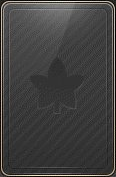
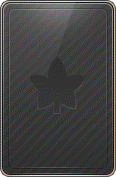
V1.1.3 加入每行角色數量防呆 美化遮住ID

Changed region(s): [[0.0, 0.0, 1.0, 1.0], [0.8534, 0.2542, 0.8793, 0.2825]]

diff --git a/main.js b/main.js
@@ -32,6 +32,9 @@ role.loadimg = function () {
 
 		role.line = Number(cardlinelen.value);
 		if (typeof role.line != 'number') role.line = 8;
+		role.line = Math.floor(role.line);
+		if (role.line < 1) role.line = 1;
+		if (role.line > 20) role.line = 20;
 
 		yield {
 			nextfunc: card.loadimg,
@@ -91,8 +94,10 @@ role.loadimg = function () {
 					icon.style.opacity = 0.3;
 				}
 				span.appendChild(icon);
-				let div = document.createElement('div');
-				span.appendChild(div);
+				let maskcard = card.newmaskcard();
+				maskcard.style.zIndex = 4;
+				maskcard.style.opacity = 0;
+				span.appendChild(maskcard);
 				span.appendChild(card.style(i, j));
 				spanmain.appendChild(span);
 				role.ref[cnt] = spanmain;
@@ -192,8 +197,8 @@ role.sort = function () {
 };
 role.maskid = function () {
 	for (let i = 0; i < role.len; i++) {
-		if (role.ref[i].getElementsByTagName('div')[0])
-			role.ref[i].getElementsByTagName('div')[0].style.opacity = 1;
+		if (role.ref[i].getElementsByTagName('canvas')[1])
+			role.ref[i].getElementsByTagName('canvas')[1].style.opacity = 1;
 	}
 	role.mask = true;
 	if (role.merge) {
@@ -204,8 +209,8 @@ role.maskid = function () {
 };
 role.cancelmaskid = function () {
 	for (let i = 0; i < role.len; i++) {
-		if (role.ref[i].getElementsByTagName('div')[0])
-			role.ref[i].getElementsByTagName('div')[0].style.opacity = 0;
+		if (role.ref[i].getElementsByTagName('canvas')[1])
+			role.ref[i].getElementsByTagName('canvas')[1].style.opacity = 0;
 	}
 	role.mask = false;
 	if (role.merge) {
@@ -224,7 +229,7 @@ role.mergeimg = function () {
 	for (let i = 0; i < role.len; i++) {
 		let cardimg;
 		if (role.refuse[role.id[i]]) {
-			cardimg = role.ref[role.id[i]].getElementsByTagName('canvas')[1];
+			cardimg = role.ref[role.id[i]].getElementsByTagName('canvas')[2];
 		} else {
 			cardimg = card.nullcard;
 		}
@@ -236,11 +241,12 @@ role.mergeimg = function () {
 			carddata.size.h
 		);
 		if (role.refuse[role.id[i]] && role.mask) {
-			ctx.fillRect(
-				role.addr[i].left + 25,
-				role.addr[i].top + 150,
-				79,
-				15
+			ctx.drawImage(
+				role.ref[i].getElementsByTagName('canvas')[1],
+				role.addr[i].left,
+				role.addr[i].top,
+				carddata.size.w,
+				carddata.size.h
 			);
 		}
 	}

diff --git a/img/card.js b/img/card.js
@@ -14,6 +14,7 @@ var card = {
 	refreg: [],
 	reg: {},
 	nullcard: {},
+	maskcard: {},
 	crossicon: {},
 	setcardangle: function (ctx, arr) {
 		let u8arr = new Uint8ClampedArray(arr);
@@ -44,6 +45,29 @@ var card = {
 			};
 			yield {
 				nextfunc: loadimg,
+				argsfront: ['img/card.png'],
+				cbfunc: function (img) {
+					let canvas = document.createElement('canvas');
+					let ctx = canvas.getContext('2d');
+					canvas.setAttribute('width', carddata.size.w);
+					canvas.setAttribute('height', carddata.size.h);
+					ctx.drawImage(
+						img,
+						25,
+						150,
+						carddata.size.w - 25 - 5,
+						carddata.size.h - 150 - 5,
+						25,
+						150,
+						carddata.size.w - 25 - 5,
+						carddata.size.h - 150 - 5
+					);
+					card.setcardangle(ctx, [0, 0, 0, 0]);
+					card.maskcard = canvas;
+				}
+			};
+			yield {
+				nextfunc: loadimg,
 				argsfront: ['img/cross.svg'],
 				cbfunc: function (img) {
 					card.crossicon = img;
@@ -60,6 +84,14 @@ var card = {
 		canvas.setAttribute('width', carddata.size.w);
 		canvas.setAttribute('height', carddata.size.h);
 		ctx.drawImage(card.nullcard, 0, 0);
+		return canvas;
+	},
+	newmaskcard: function () {
+		let canvas = document.createElement('canvas');
+		let ctx = canvas.getContext('2d');
+		canvas.setAttribute('width', carddata.size.w);
+		canvas.setAttribute('height', carddata.size.h);
+		ctx.drawImage(card.maskcard, 0, 0);
 		return canvas;
 	},
 	loadimg: function (callback) {

diff --git a/main.css b/main.css
@@ -85,24 +85,13 @@ input[type="button"] {
 	z-index: 3;
 }
 
-#layout span div{
-	position: absolute;
-	background: #444;
-	left: 25px;
-	top: 150px;
-	width: 79px;
-	height: 15px;
-	opacity: 0;
-	z-index: 4;
-}
-
 #layout span img {
 	position: absolute;
 	transition: all 300ms;
 	opacity: 0.3;
 	left: 0px;
 	top: 0px;
-	z-index: 4;
+	z-index: 5;
 }
 
 #mergeimg {
